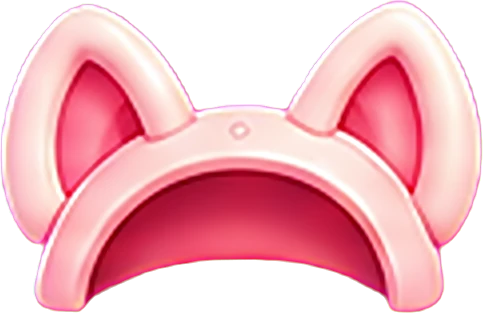
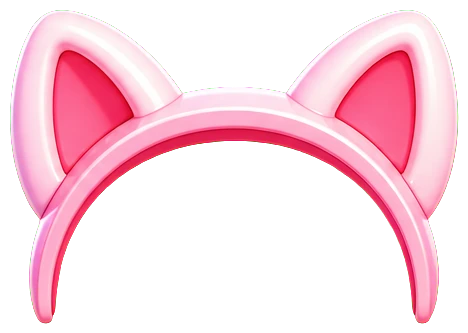
Fipilot Pet – 4 tai nghe vẽ lại nhìn thẳng như đang đeo (quai sát đỉnh đầu, chụp tai ôm 2 bên), băng đô tai mèo vẽ lại vòng qua đỉnh đầu (giữ lá), quả tạ cầm dọc (ChatGPT 20/10)
Kiểm: npm test đạt; soát ảnh ghép tai nghe, băng đô, quả tạ × 2 thân.

Claude-Session: https://claude.ai/code/session_0163KSZYdzHDud2uG42gs7mp

diff --git a/scripts/pet/fit.py b/scripts/pet/fit.py
@@ -51,15 +51,19 @@ GRIP={3:(.13,.55),4:(.13,.55),5:(.14,.55),12:(.13,.55),6:(.30,.5),7:(.24,.85),10
 for i,(cw,gy) in GRIP.items():
     A[f'phu-kien-{i:02d}']={v:grip(f'phu-kien/phu-kien-{i:02d}.webp',v,cw,gy) for v in ('nam','nu')}
 # --- Đồ đội trên đầu không trùm (nơ, băng đô, vương miện): đáy món ngay trên lông mày, rộng theo đầu ---
-for i,(bn,bu,cn,cu) in {7:(.25,.30,.55,.58),10:(.275,.325,.62,.68),11:(.262,.312,.50,.56),12:(.262,.312,.50,.56)}.items():
+for i,(bn,bu,cn,cu) in {7:(.25,.30,.55,.58),10:(.305,.35,.62,.68),11:(.262,.312,.50,.56),12:(.262,.312,.50,.56)}.items():
     A[f'doi-dau-{i:02d}']={'nam':fitw(f'doi-dau/doi-dau-{i:02d}.webp','nam',bn,cn),'nu':fitw(f'doi-dau/doi-dau-{i:02d}.webp','nu',bu,cu)}
 # --- Kính: tâm tròng kính trùng tâm mắt, kính đủ rộng để ôm trọn 2 mắt ---
 EYE_C={'nam':.357,'nu':.412}; GW={'nam':.58,'nu':.62}
 for i in (1,2,3,6,7,8):
     A[f'kinh-tai-nghe-{i:02d}']={v:fitc(f'kinh-tai-nghe/kinh-tai-nghe-{i:02d}.webp',v,EYE_C[v],GW[v]) for v in ('nam','nu')}
-# --- Tai nghe: chụp tai ôm 2 bầu má bên đầu, không lấn vào mắt; quai vòng qua đỉnh đầu ---
+# --- Tai nghe (vẽ lại 20/10, nhìn thẳng như đang đeo): quai sát đỉnh đầu dưới cuống lá, chụp tai ôm 2 bầu đầu ---
+def fittop(file,v,top,cw,cx=.5):
+    im=Image.open(f'{R}/{file}'); l,t,r,b=im.split()[3].point(lambda p:255 if p>40 else 0).getbbox()
+    bw,bh=B[v]; s=cw*bw/(r-l)
+    return {'x':round(cx+(im.width/2-(l+r)/2)*s/bw,4),'y':round((top*bh-t*s+im.height*s/2)/bh,4),'w':round(im.width*s/bw,4)}
 for i in (4,5,9,10):
-    A[f'kinh-tai-nghe-{i:02d}']={'nam':fitc(f'kinh-tai-nghe/kinh-tai-nghe-{i:02d}.webp','nam',.40,.86),'nu':fitc(f'kinh-tai-nghe/kinh-tai-nghe-{i:02d}.webp','nu',.45,.90)}
+    A[f'kinh-tai-nghe-{i:02d}']={'nam':fittop(f'kinh-tai-nghe/kinh-tai-nghe-{i:02d}.webp','nam',.165,.90),'nu':fittop(f'kinh-tai-nghe/kinh-tai-nghe-{i:02d}.webp','nu',.17,.94)}
 # --- Khăn: quấn ngay dưới cằm, trên vai (không trùm lên mặt) ---
 for f in ('ao-roi/ao-roi-07.webp','phu-kien/phu-kien-13.webp'):
     k=f.split('/')[1][:-5]

diff --git a/scripts/pet/gen_catalog.py b/scripts/pet/gen_catalog.py
@@ -76,9 +76,9 @@ def default(it, v):
 # Đồ cầm tay vẽ kèm bàn tay đang nắm (ChatGPT 20/10): đặt tâm bàn tay trong ảnh trùng tâm bàn tay của thân.
 # Cỡ: 100 px trên tấm vẽ = 0,15 bề rộng thân (bàn tay vẽ lớn hơn tay thân một chút để che kín).
 HOLD = json.load(open('scripts/pet/hands.json'))
-HOLD_SCALE = {'phu-kien-07': 1.6, 'phu-kien-15': 1.3, 'phu-kien-03': 1.1, 'phu-kien-04': 1.1, 'phu-kien-05': 1.1, 'phu-kien-12': 1.1}  # chùm bóng bay to hơn, hoa to hơn chút
+HOLD_SCALE = {'phu-kien-06': 1.2, 'phu-kien-07': 1.6, 'phu-kien-15': 1.3, 'phu-kien-03': 1.1, 'phu-kien-04': 1.1, 'phu-kien-05': 1.1, 'phu-kien-12': 1.1}  # chùm bóng bay to hơn, hoa to hơn chút
 BODY_HAND = {'nam': (0.852, 0.7828, 588, 900), 'nu': (0.8515, 0.7828, 559, 900)}
-COVER = {f'doi-dau-{i:02d}' for i in (1, 2, 3, 4, 5, 6, 8, 9, 10)}  # mũ trùm kín đỉnh đầu → ẩn lá + chỏm đầu dưới mũ
+COVER = {f'doi-dau-{i:02d}' for i in (1, 2, 3, 4, 5, 6, 8, 9)}  # mũ trùm kín đỉnh đầu → ẩn lá + chỏm đầu dưới mũ
 for it in items:
     if it['id'] in COVER: it['cover'] = True
     if it['id'] in QUAI:
